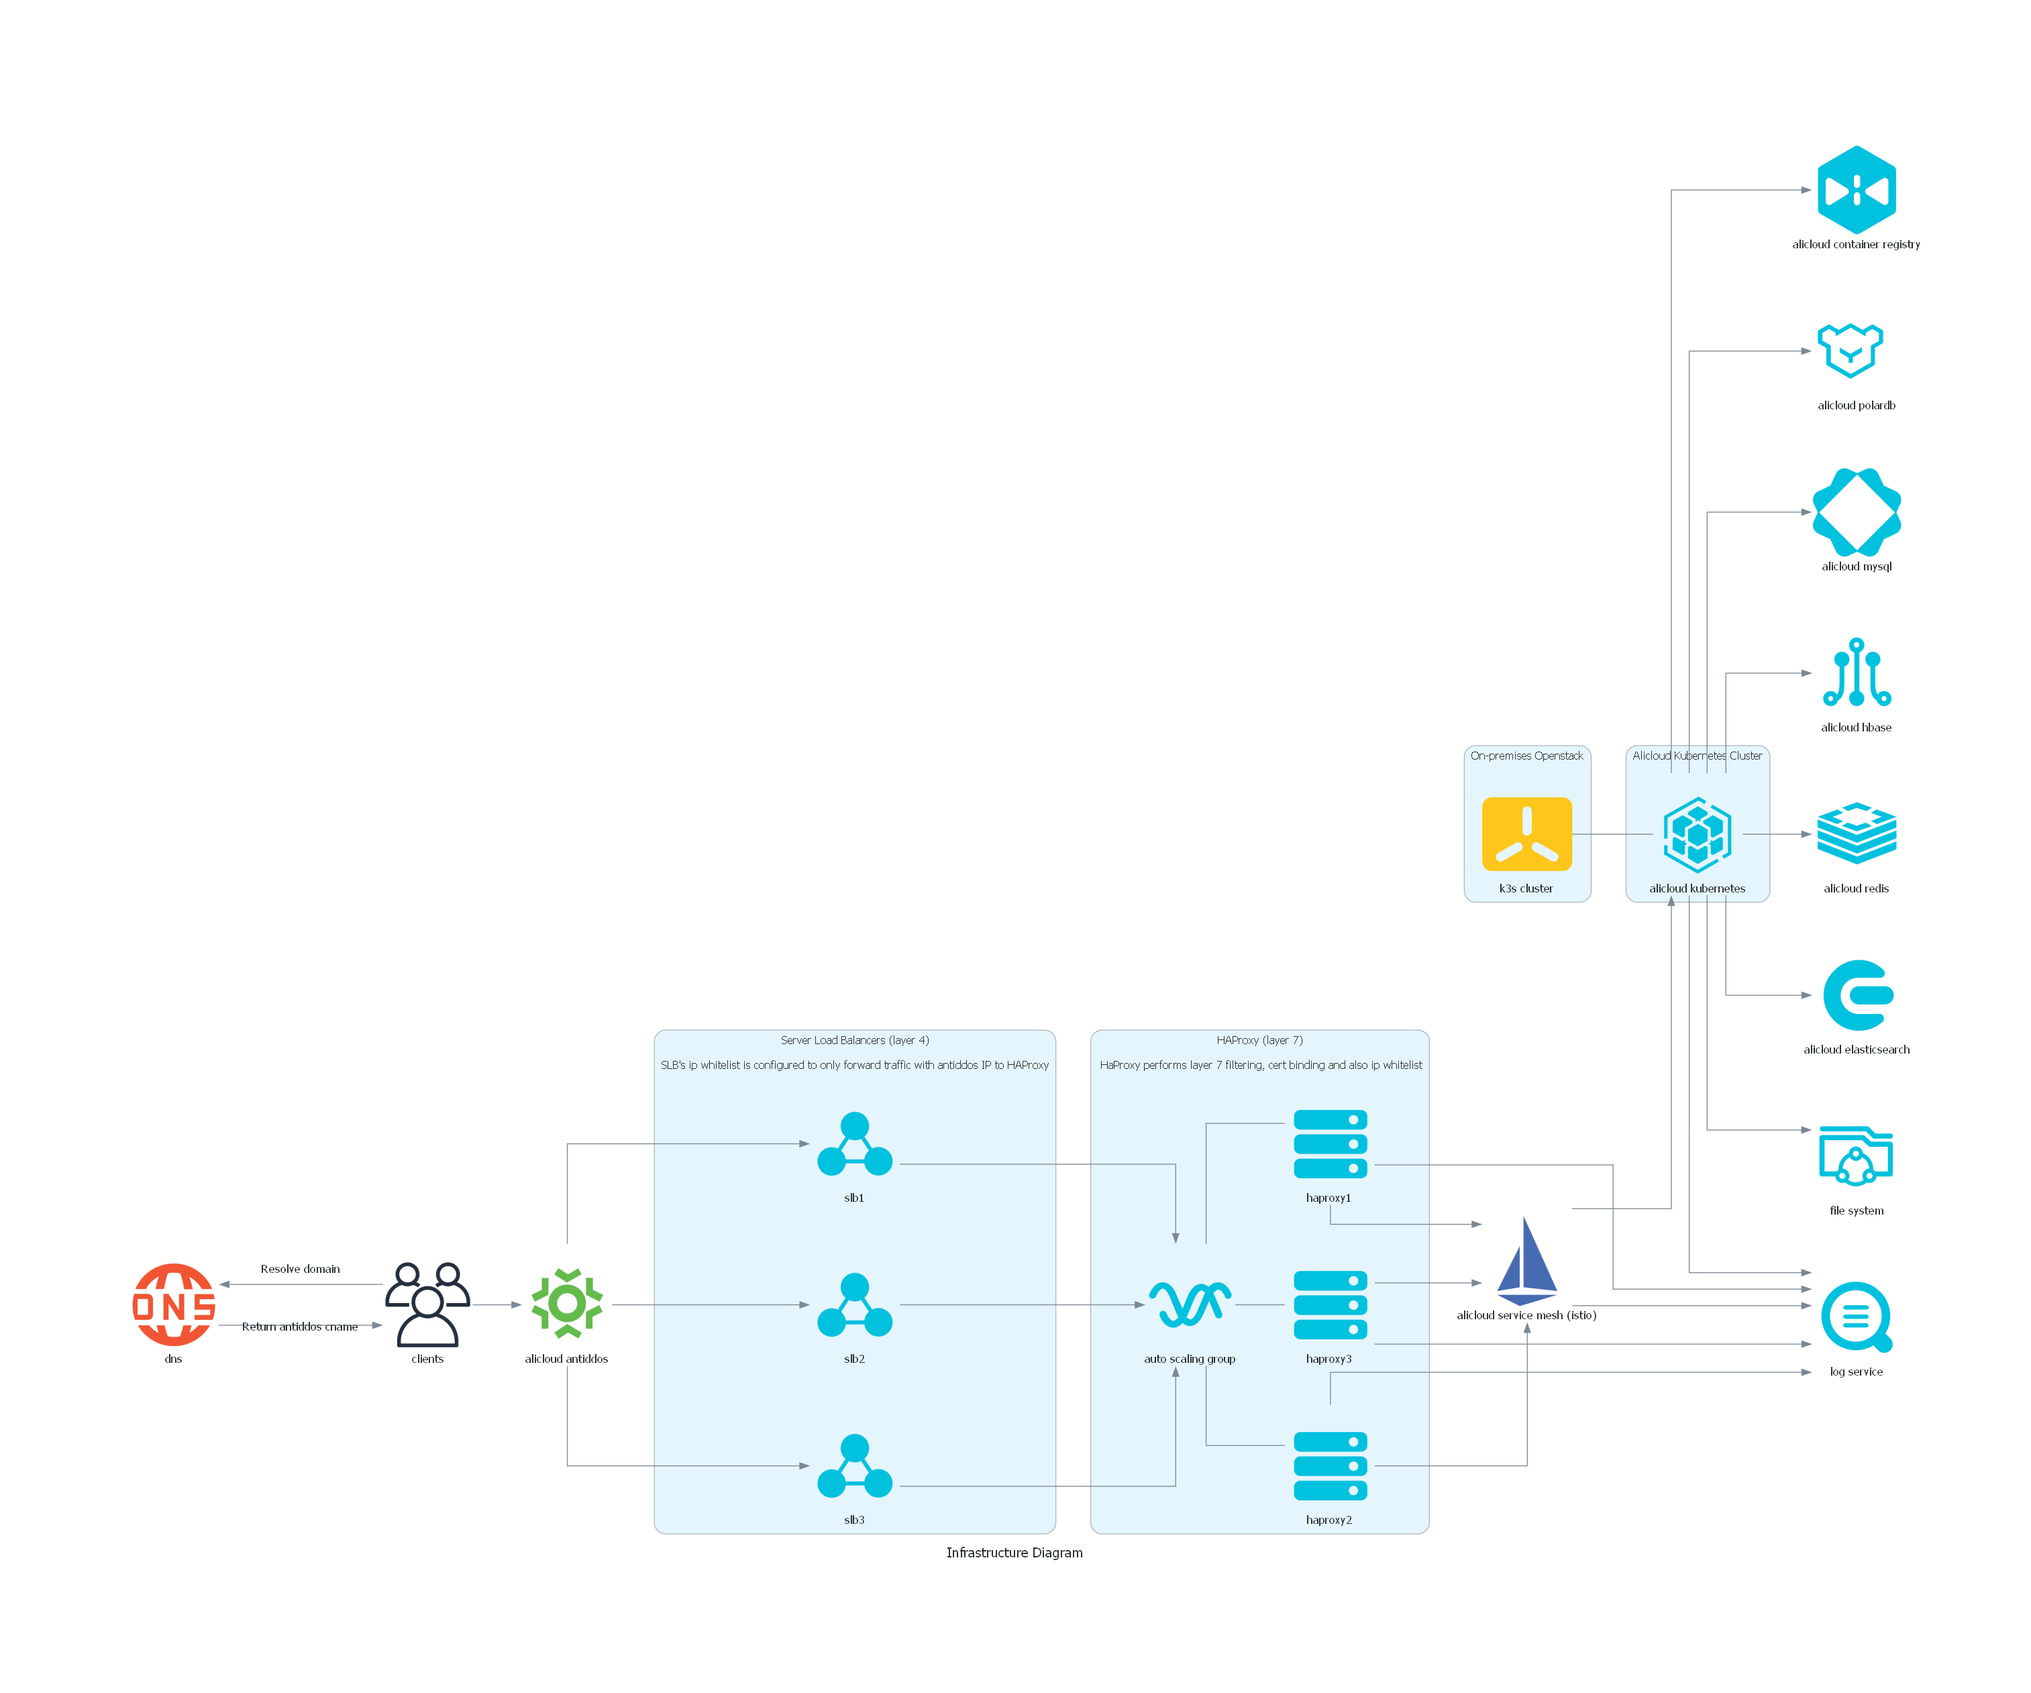
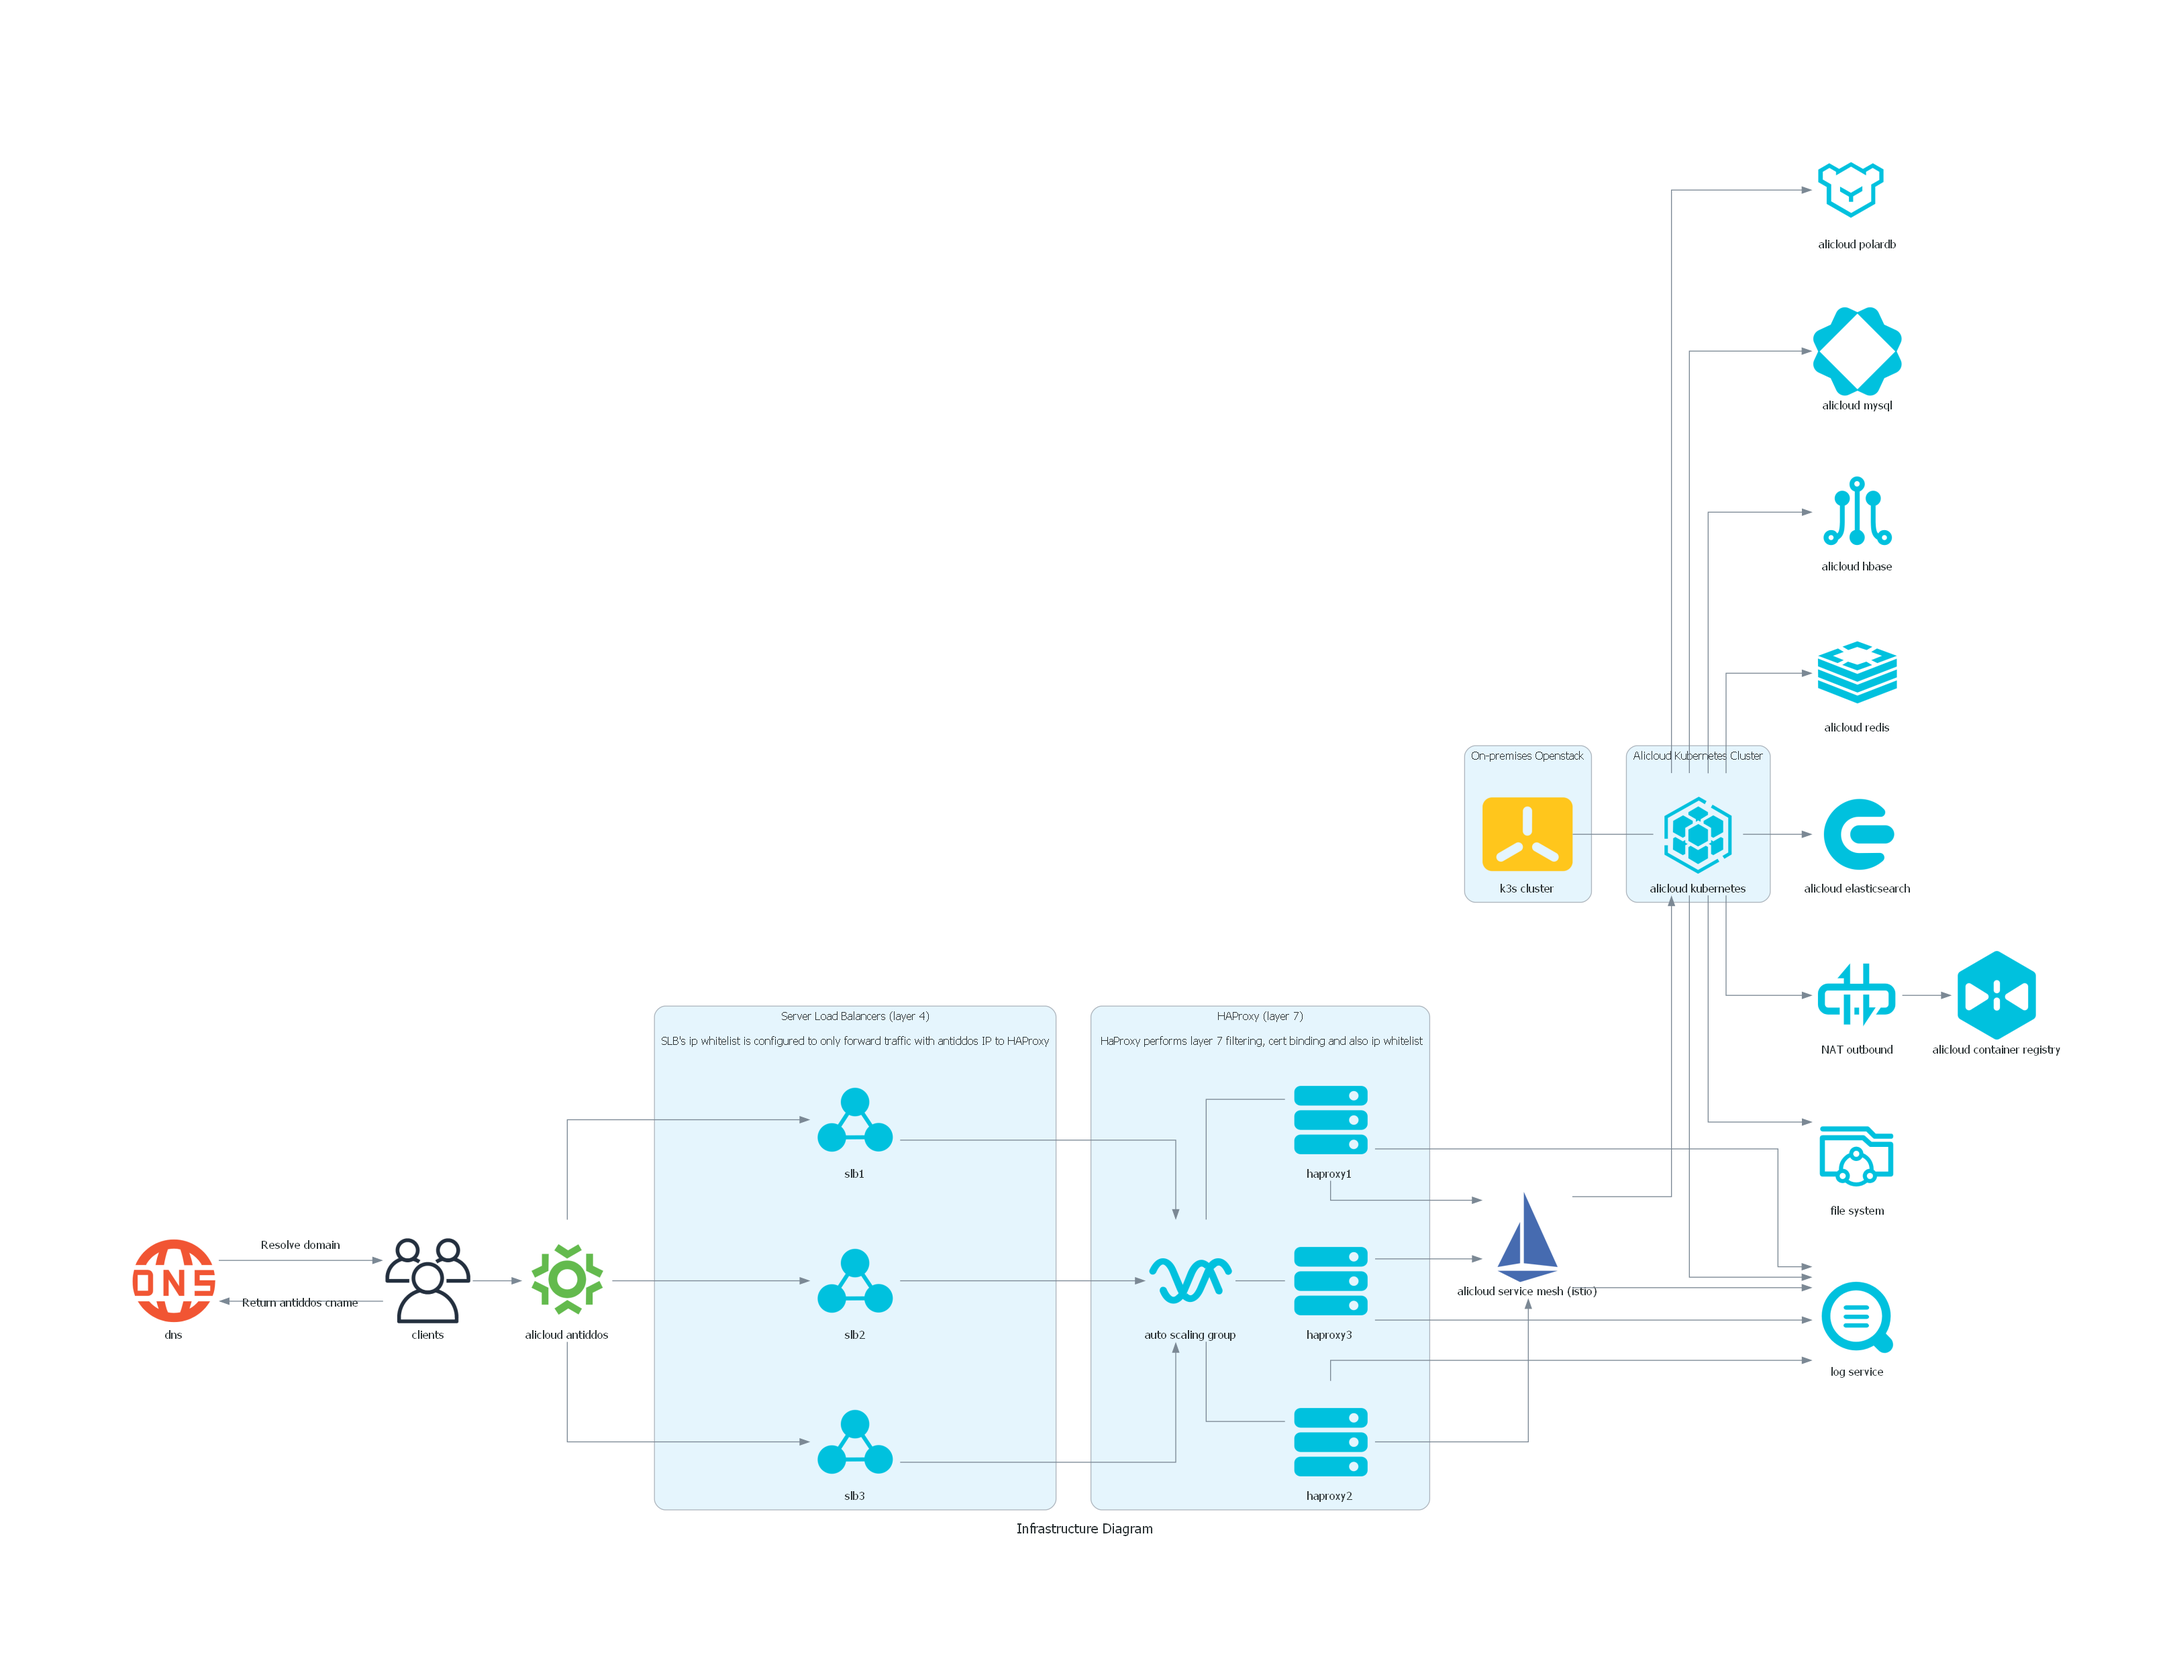
update diagram

diff --git a/part 2/diagram.py b/part 2/diagram.py
@@ -1,7 +1,7 @@
 from diagrams import Cluster, Diagram, Edge
 from diagrams.custom import Custom
 from diagrams.alibabacloud.compute import ESS, ECS, ContainerService, ElasticSearch, ContainerRegistry
-from diagrams.alibabacloud.network import SLB
+from diagrams.alibabacloud.network import SLB, NatGateway
 from diagrams.alibabacloud.storage import NAS
 from diagrams.alibabacloud.application import SLS
 from diagrams.alibabacloud.database import ApsaradbPolardb, ApsaradbHbase, ApsaradbRedis
@@ -34,17 +34,11 @@ edge_attr = {
 with Diagram("Infrastructure Diagram", graph_attr=graph_attr, show=False):
     dns = Dns("dns")
     client = Users("clients")
-    antiddos = AntiDdosPro("alicloud antiddos")
     asm = Istio("alicloud service mesh (istio)")
     sls = SLS("log service")
-    nas = NAS("file system")
-    registry = ContainerRegistry("alicloud container registry")
-    polardb = ApsaradbPolardb("alicloud polardb")
-    mysql = AnalyticDb("alicloud mysql")
-    hbase = ApsaradbHbase("alicloud hbase")
-    redis = ApsaradbRedis("alicloud redis")
-    elasticsearch = ElasticSearch("alicloud elasticsearch")
-    services = [sls, nas, registry, polardb, mysql, hbase, redis, elasticsearch]
+    services = [sls, NAS("file system"), ApsaradbPolardb("alicloud polardb"), 
+                AnalyticDb("alicloud mysql"), ApsaradbHbase("alicloud hbase"), 
+                ApsaradbRedis("alicloud redis"), ElasticSearch("alicloud elasticsearch")]
     
     with Cluster("On-premises Openstack"):
         k3s = K3S("k3s cluster")
@@ -58,16 +52,16 @@ with Diagram("Infrastructure Diagram", graph_attr=graph_attr, show=False):
 
     with Cluster("Alicloud Kubernetes Cluster"):
         ack = ContainerService("alicloud kubernetes")
-        
 
     client >> Edge(label="Return antiddos cname") >> dns
-    dns >> Edge(label="Resolve domain") >> client >> antiddos >> slb >> ess
+    dns >> Edge(label="Resolve domain") >> client >> AntiDdosPro("alicloud antiddos") >> slb >> ess
     for hp in haproxy:
         ess - hp
     k3s - ack
     haproxy >> asm >> ack
     haproxy >> sls
     asm >> sls
+    ack >> NatGateway("NAT outbound") >> ContainerRegistry("alicloud container registry") 
     for svc in services:
         ack >> svc
 
